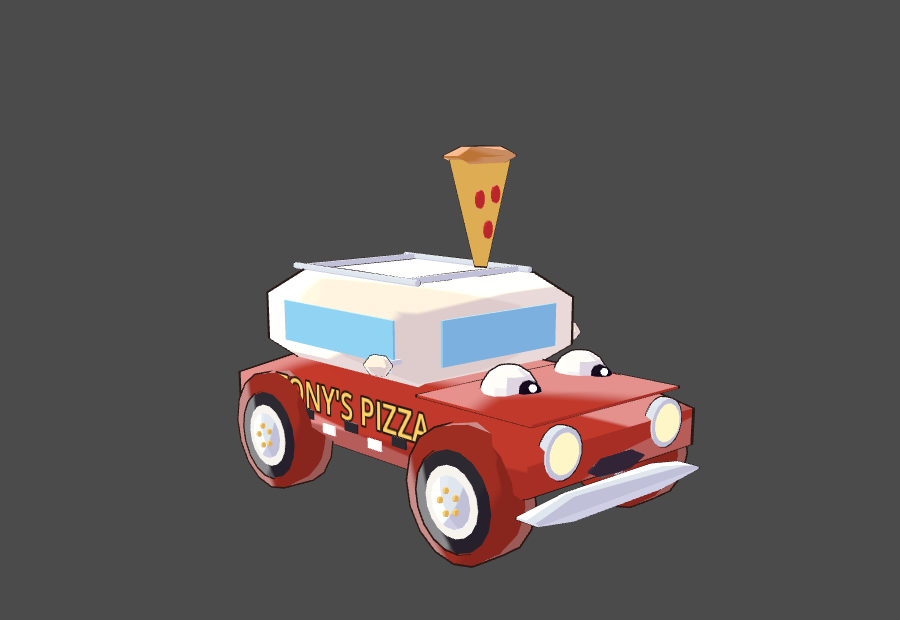
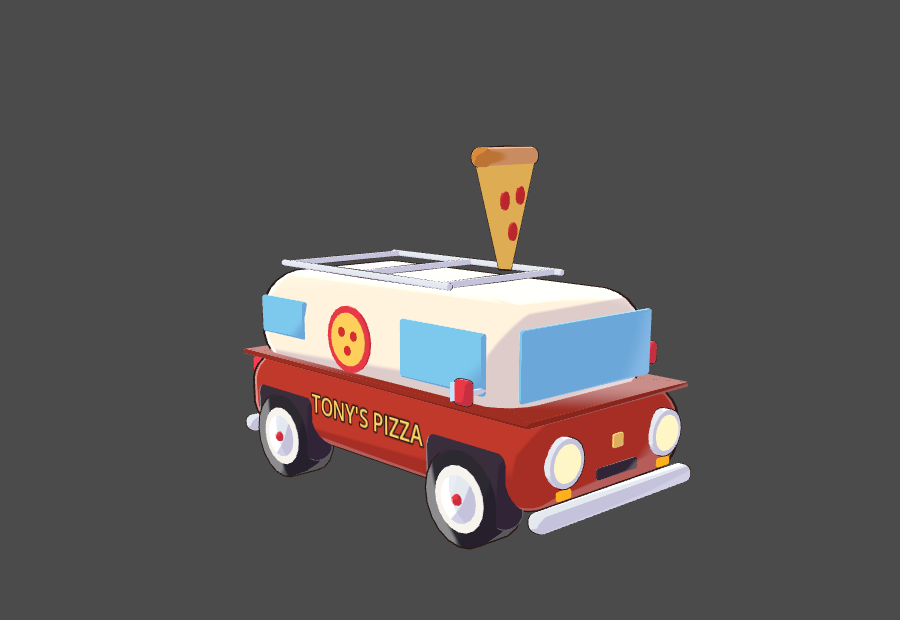
Rounded bread-van car, no car eyes, driving arms attached to shoulders
- New Shapes.rounded_box (smooth rounded corners) used for the whole van:
  two-tone rounded body, big windshield, tucked-in whitewall wheels, round
  headlights, side logos, tall tail lights, slim chrome bumpers
- Removed the googly eyes from the car
- Cockpit moved to the front of the van; driving arms are now two-bone
  IK arms from your shoulders to the hands on the wheel, so they stay
  attached when steering

Claude-Session: https://claude.ai/code/session_013kVFc28PVBNfKW8FGZvXiJ

Changed region(s): [[0.2489, 0.2145, 0.7778, 0.9194]]

diff --git a/pizza-panic/README.md b/pizza-panic/README.md
@@ -31,8 +31,8 @@ Each day runs from 10 AM to 10 PM (about 12 real minutes):
    - **Cutting board** (right island): drag the pizza wheel across it. 4 straight cuts through the
      middle make 8 perfect slices, and crooked cuts get noticed. Then fold the box shut.
    - **Pass shelf**: boxed pizzas wait under the heat lamps.
-3. **Load the car and drive.** Tony's little delivery van has googly eyes on the hood and a
-   giant pizza slice on the roof. You drive it from the driver's seat:
+3. **Load the car and drive.** Tony's little delivery van is a rounded two-tone bread van
+   with a giant pizza slice on the roof. You drive it from the driver's seat:
    - Your hands are on the wheel, Tony bobbles on the dash, and a pizza air freshener swings.
    - The **dashboard GPS** shows a live map, the route along real streets, "Turn left in 40 m",
      and how far you have left.
